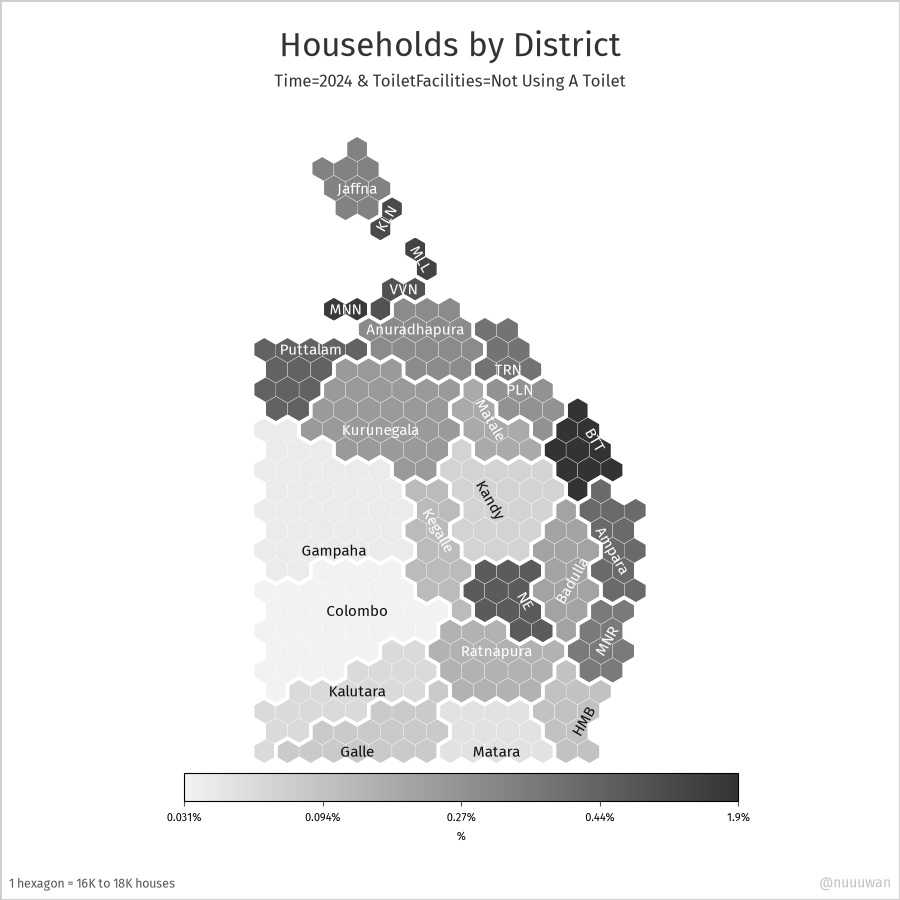
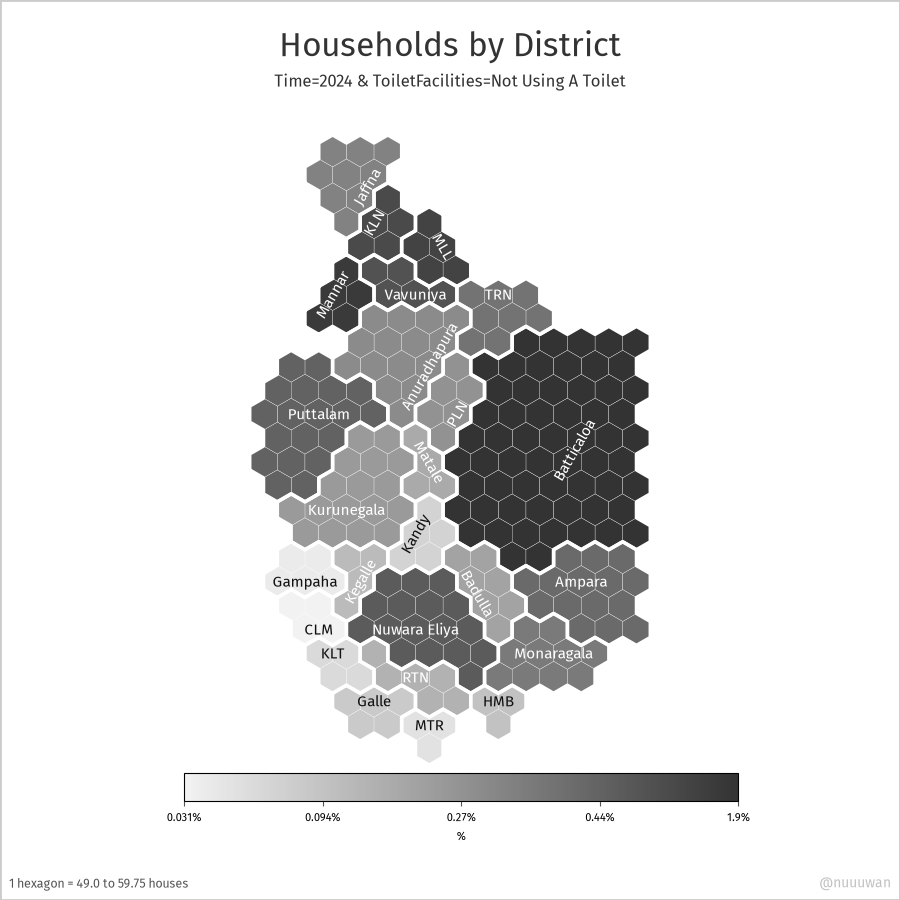
Implement Count weighting for Dorling/HexMap/SquareMap

Changed region(s): [[0.28, 0.1556, 0.7467, 0.8711], [0.0933, 0.9644, 0.1867, 0.9956]]

diff --git a/src/ds/visual/map/MapPercentMixin.py b/src/ds/visual/map/MapPercentMixin.py
@@ -55,11 +55,19 @@ class MapPercentMixin:
             if totals.get(region)
         }
 
+    def _use_count_weights(self):
+        return False
+
     def _get_region_id_to_weight(self, gdf, sub_datumset=None):
-        totals = self._get_region_totals(sub_datumset)
+        if self._use_count_weights():
+            region_values = self._get_region_values_for(
+                sub_datumset or self.datumset
+            )
+        else:
+            region_values = self._get_region_totals(sub_datumset)
         weights = {}
         for _, row in gdf.iterrows():
-            weight = self._lookup_region_value(row, totals)
+            weight = self._lookup_region_value(row, region_values)
             if weight is not None:
                 weights[row["region_id"]] = weight
         return weights

diff --git a/src/ds/visual/shape_map/ShapeMapScaleMixin.py b/src/ds/visual/shape_map/ShapeMapScaleMixin.py
@@ -50,8 +50,11 @@ class ShapeMapScaleMixin:
     def _get_shared_value_per_shape(self):
         all_weights = []
         for sub_datumset in self.display_datumsets:
-            totals = self._get_region_totals(sub_datumset)
-            all_weights.extend(w for w in totals.values() if w > 0)
+            if self._use_count_weights():
+                weights = self._get_region_values_for(sub_datumset)
+            else:
+                weights = self._get_region_totals(sub_datumset)
+            all_weights.extend(w for w in weights.values() if w > 0)
         return self._value_per_shape(dict(enumerate(all_weights)))
 
     def _plot(self, fig, ax):

diff --git a/src/ds/visual/shape_map/AbstractShapeMap.py b/src/ds/visual/shape_map/AbstractShapeMap.py
@@ -18,4 +18,6 @@ class AbstractShapeMap(
     ShapeMapScaleMixin,
     Map,
 ):
-    pass
+
+    def _use_count_weights(self):
+        return self.y_cell_key == "Count"

diff --git a/src/ds/visual/shape_map/AbstractUnitShapeMap.py b/src/ds/visual/shape_map/AbstractUnitShapeMap.py
@@ -5,3 +5,6 @@ class AbstractUnitShapeMap:
 
     def _add_shape_scale_note(self, fig):
         pass
+
+    def _use_count_weights(self):
+        return False

diff --git a/src/ds/visual/dorling/Dorling.py b/src/ds/visual/dorling/Dorling.py
@@ -10,4 +10,6 @@ class Dorling(
     DorlingLabelMixin,
     Map,
 ):
-    pass
+
+    def _use_count_weights(self):
+        return self.y_cell_key == "Count"
